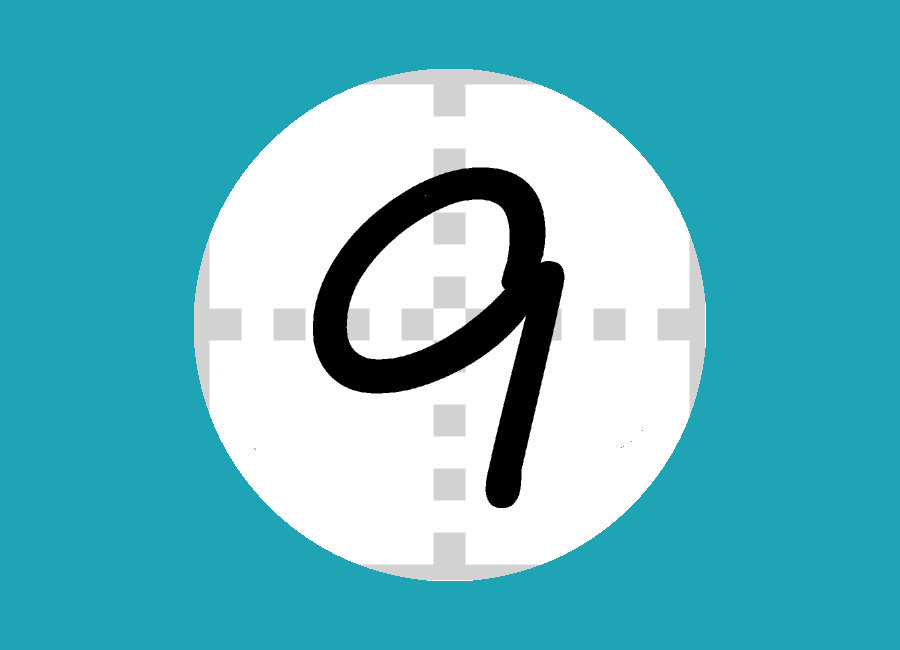
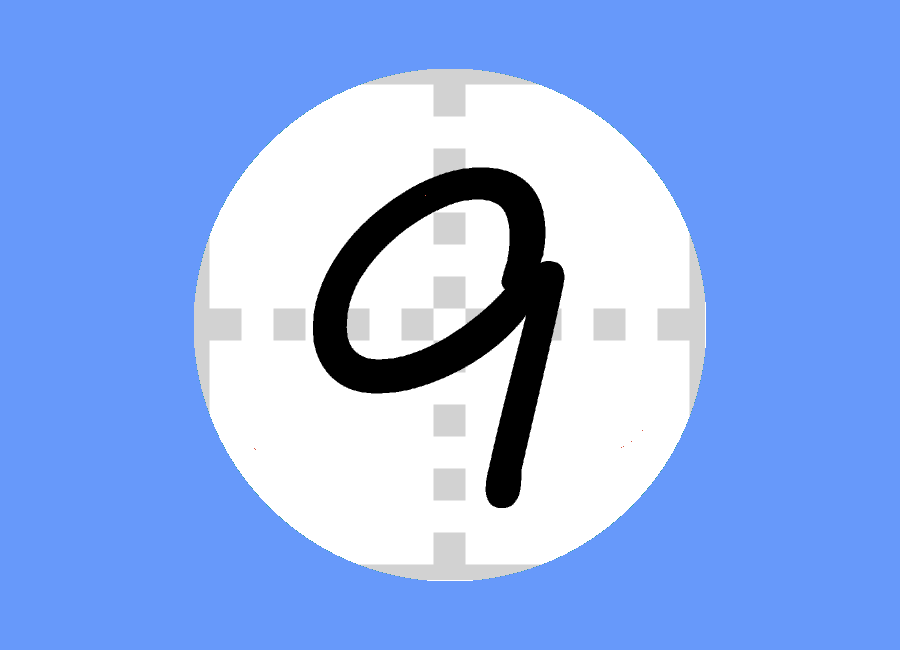
아이콘 업로드 외 1
아이콘 업로드
프로젝트 업로드

diff --git a/_includes/about.html b/_includes/about.html
@@ -10,9 +10,9 @@
     <div class="row">
       <div class="col-lg-4 col-lg-offset-2">
         <p>안녕하세요.<br>게임 프로그래머 이지헌 입니다.</p>
-		<p>유니티로 개인 프로젝트를 진행하고 있습니다.</p>
+		<p>유니티로 게임을 개발하고 있습니다.</p>
       </div>
-	  <!-->
+	  <!--
       <div class="col-lg-4">
         <p>Whether you're a student looking to showcase your work, a professional looking to attract clients, or
           a graphic artist looking to share your projects, this template is the perfect starting point! </p>
@@ -22,7 +22,7 @@
           <i class="fa fa-download"></i> Download Theme
         </a>
       </div>
-	  <!-->
+	  -->
     </div>
   </div>
 </section>

diff --git a/_includes/header.html b/_includes/header.html
@@ -3,7 +3,7 @@
   <div class="container">
     <div class="row">
       <div class="col-lg-12">
-        <img class="img-responsive" src="img/profile.png" alt="profile-pic" />
+        <img class="img-responsive" src="img/myicon.png" alt="profile-pic" />
         <div class="intro-text">
           <span class="name">{{ site.title }}</span>
           <hr class="star-light" />

diff --git a/_includes/modals.html b/_includes/modals.html
@@ -31,7 +31,7 @@
               </li>
               {% endif %}
               {% if post.category %}
-              <li>Service:
+              <li>Category:
                 <strong>{{ post.category }}</strong>
               </li>
               {% endif %}
